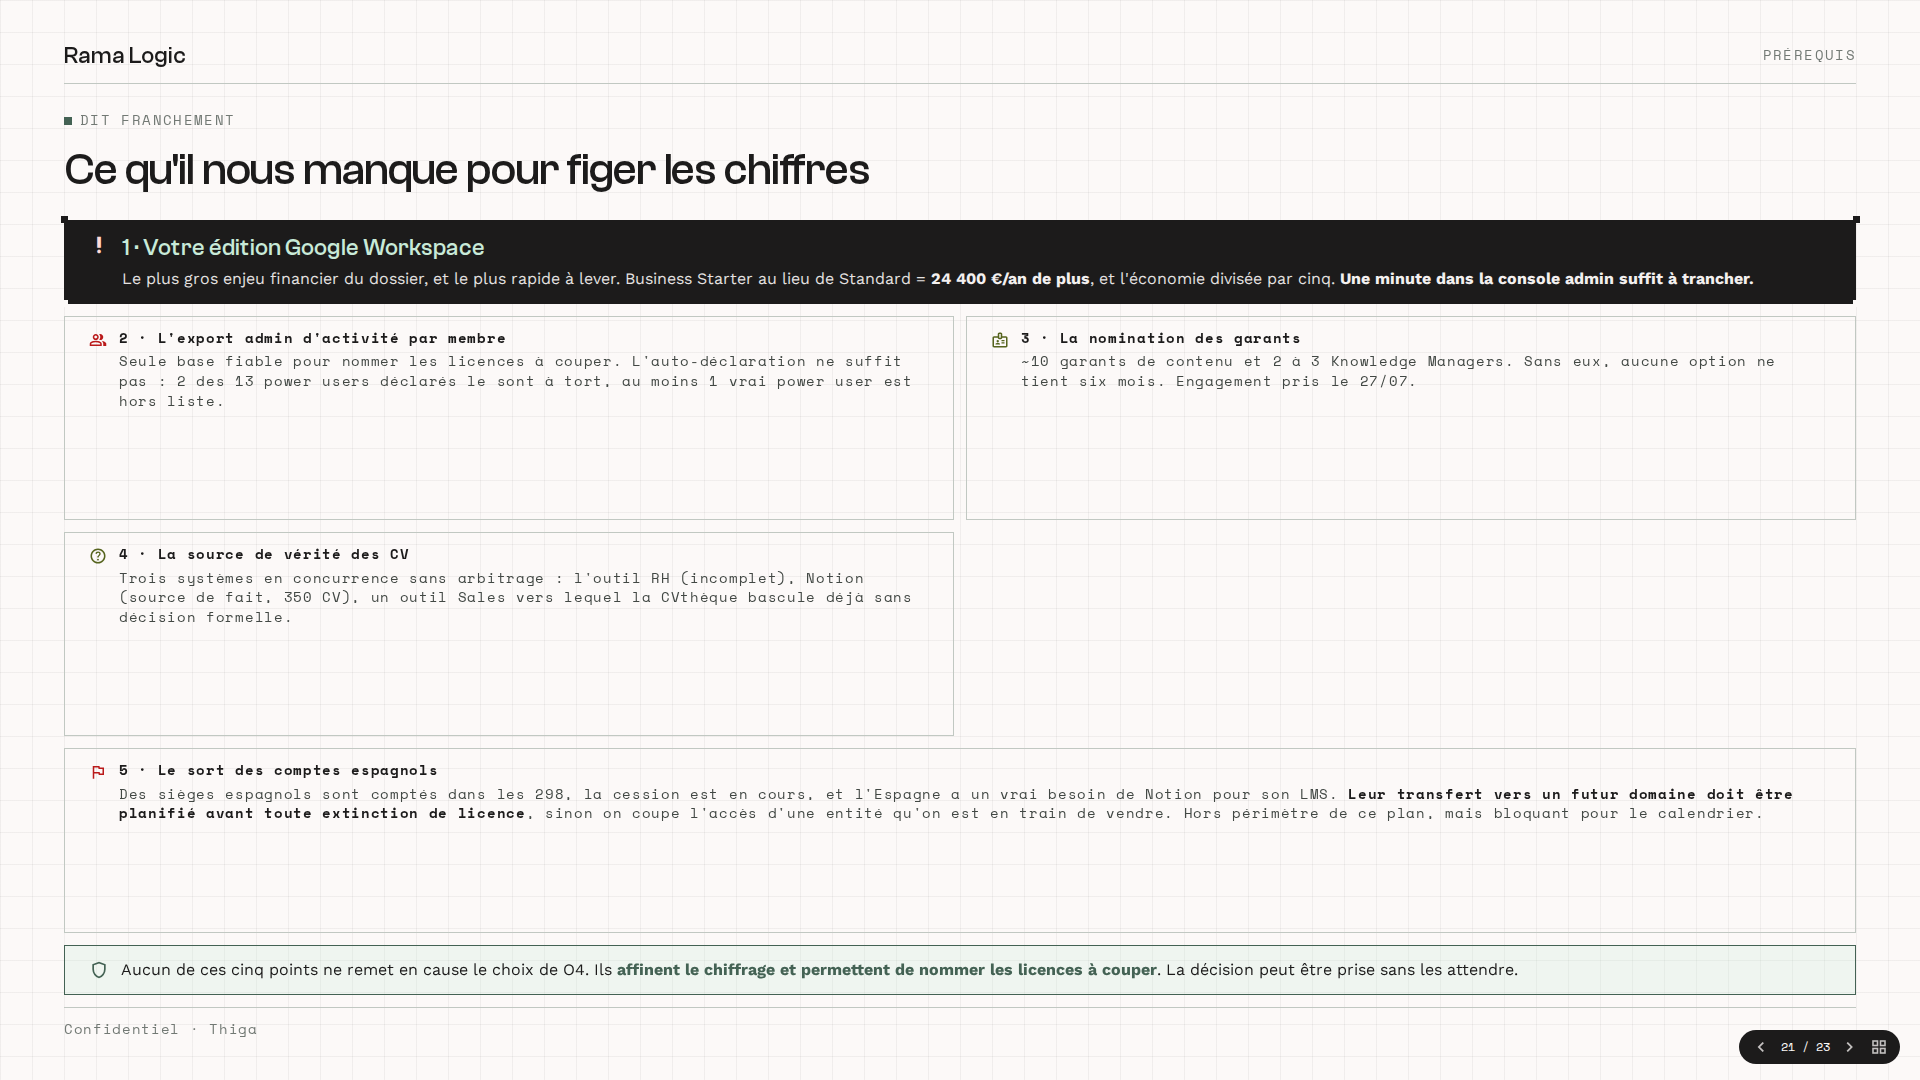
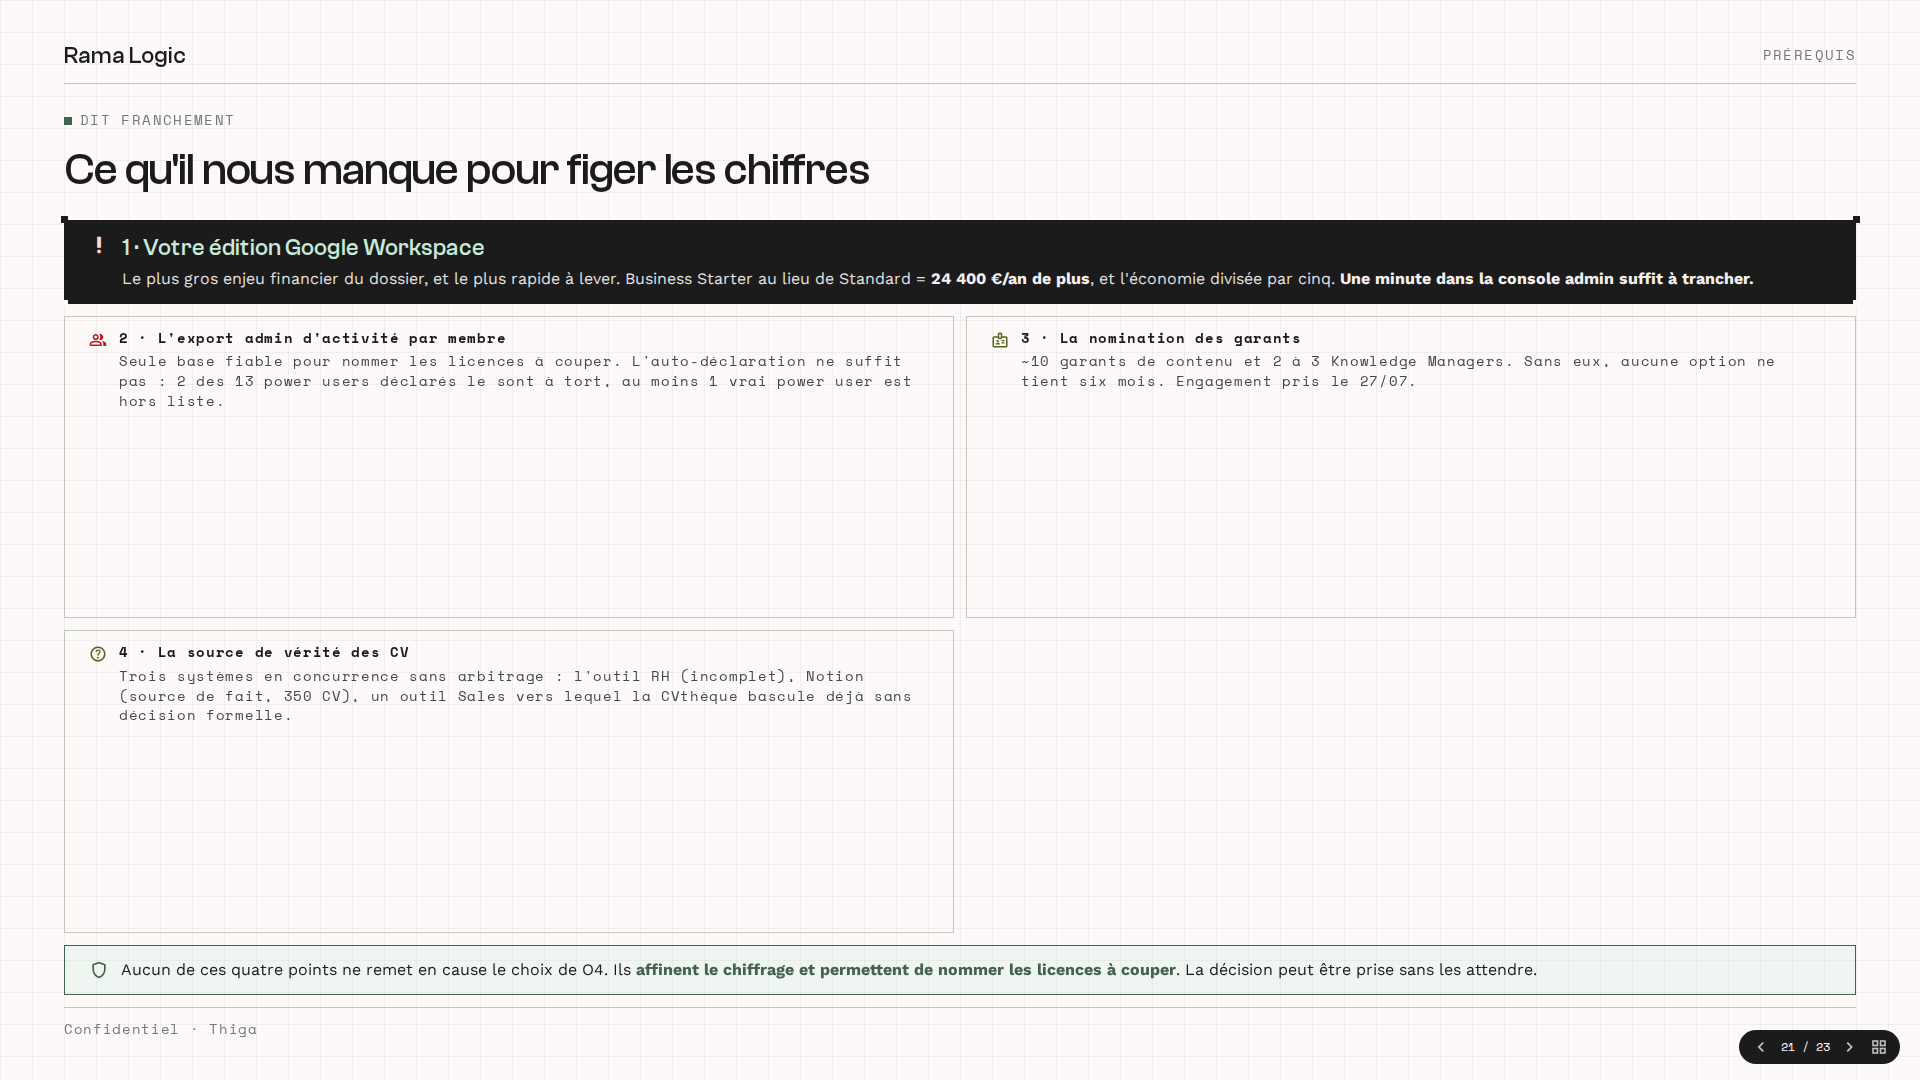
Thiga deck: retire la mention de l'Espagne
L'entité est en cours de cession, le sujet ne concerne pas la décision.
La slide prérequis repasse à 4 points.

Claude-Session: https://claude.ai/code/session_01JP9NZ7MZKWuYUJsJKNQgW9

diff --git a/webpages/decks/2026-07-22_thiga-restitution_r7k2m9/index.html b/webpages/decks/2026-07-22_thiga-restitution_r7k2m9/index.html
@@ -1026,14 +1026,10 @@
           <span class="material-symbols-outlined text-secondary text-[18px] mt-0.5">help</span>
           <div><p class="font-code-label text-code-label text-on-background font-bold mb-1">4 · La source de vérité des CV</p><p class="font-code-label text-code-label text-on-surface-variant">Trois systèmes en concurrence sans arbitrage : l'outil RH (incomplet), Notion (source de fait, 350 CV), un outil Sales vers lequel la CVthèque bascule déjà sans décision formelle.</p></div>
         </div>
-        <div class="border border-outline-variant p-sm px-md flex items-start gap-sm md:col-span-2">
-          <span class="material-symbols-outlined text-error text-[18px] mt-0.5">flag</span>
-          <div><p class="font-code-label text-code-label text-on-background font-bold mb-1">5 · Le sort des comptes espagnols</p><p class="font-code-label text-code-label text-on-surface-variant">Des sièges espagnols sont comptés dans les 298, la cession est en cours, et l'Espagne a un vrai besoin de Notion pour son LMS. <strong class="text-on-background">Leur transfert vers un futur domaine doit être planifié avant toute extinction de licence</strong>, sinon on coupe l'accès d'une entité qu'on est en train de vendre. Hors périmètre de ce plan, mais bloquant pour le calendrier.</p></div>
-        </div>
       </div>
       <div class="border border-primary bg-primary-fixed/25 p-sm px-md flex items-center gap-sm">
         <span class="material-symbols-outlined text-primary text-[20px]">shield</span>
-        <p class="font-body-reg text-body-reg text-on-background">Aucun de ces cinq points ne remet en cause le choix de O4. Ils <strong class="text-primary">affinent le chiffrage et permettent de nommer les licences à couper</strong>. La décision peut être prise sans les attendre.</p>
+        <p class="font-body-reg text-body-reg text-on-background">Aucun de ces quatre points ne remet en cause le choix de O4. Ils <strong class="text-primary">affinent le chiffrage et permettent de nommer les licences à couper</strong>. La décision peut être prise sans les attendre.</p>
       </div>
     </div>
     <div class="pt-sm mt-sm border-t border-outline-variant flex justify-between font-code-label text-code-label text-outline"><span>Confidentiel · Thiga</span></div>
